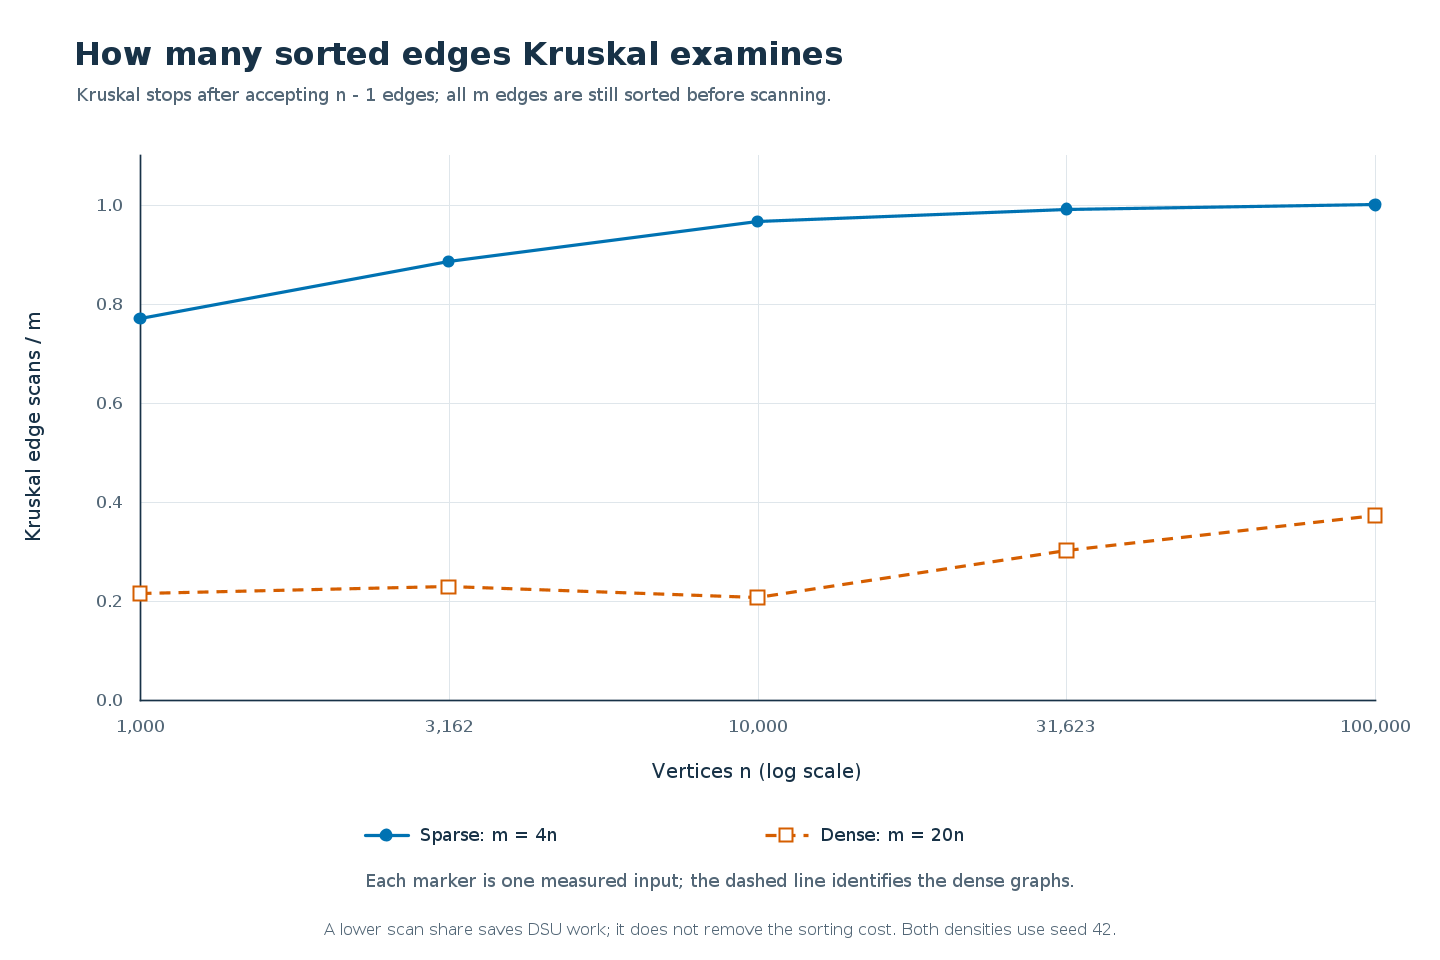
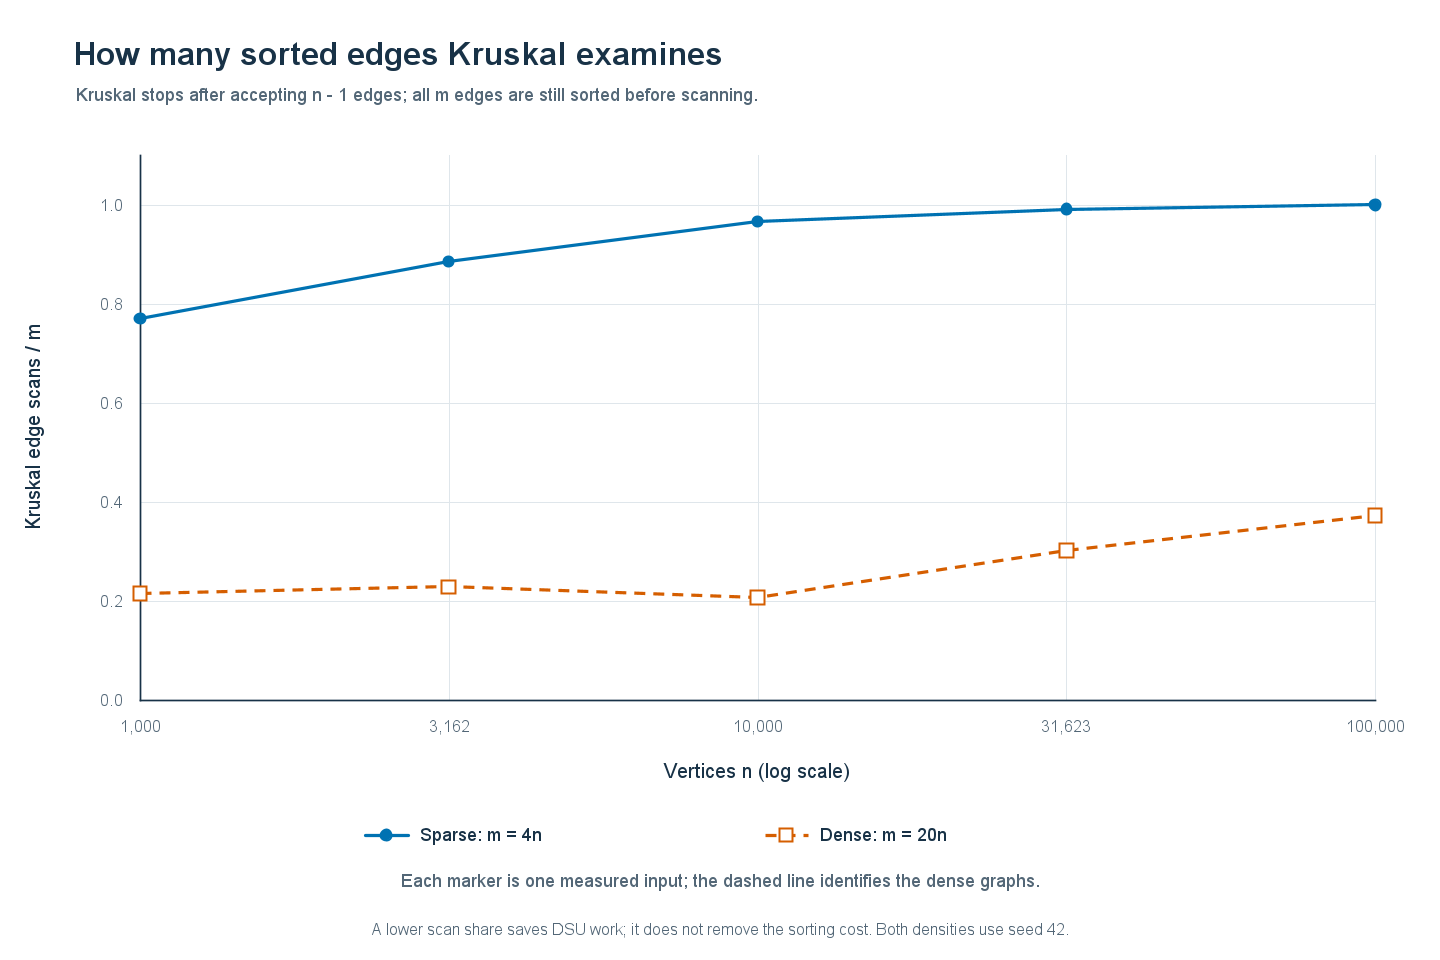
docs(report): update benchmark results and plots

diff --git a/REPORT.md b/REPORT.md
@@ -1,7 +1,7 @@
 # Assignment 3: Graphs, DSU, MST, SCC and Shortest Paths
 
 **Student:** Aisha Kazbekova | **Group:** SE-2518
-git add src/test/java/tests/MSTTest.java
+
 
 ## 1. Scope and reproducibility
 
@@ -152,7 +152,7 @@ cyclic graphs. Graph type determines algorithm eligibility before density determ
 
 ### Measured time
 
-Across the algorithms and densities, recorded medians at V=1,000 range from 3.621 to 18.957 ms; at V=100,000 they range from 158.491 to 11241.552 ms. Report-generation environment: Java 17.0.20, Linux amd64. The CSV is the measured-run record. JIT compilation, allocation, garbage collection, hardware and background load affect these values, especially at the smallest sizes; five-run medians reduce noise but do not make a universal speed ranking. Operation counts, graph representation and asymptotic reasoning are the primary evidence.
+Across the algorithms and densities, recorded medians at V=1,000 range from 0.804 to 7.885 ms; at V=100,000 they range from 31.704 to 2312.147 ms. Report-generation environment: Java 25.0.1, Windows 11 amd64. The CSV is the measured-run record. JIT compilation, allocation, garbage collection, hardware and background load affect these values, especially at the smallest sizes; five-run medians reduce noise but do not make a universal speed ranking. Operation counts, graph representation and asymptotic reasoning are the primary evidence.
 
 <!-- PAGEBREAK -->
 
